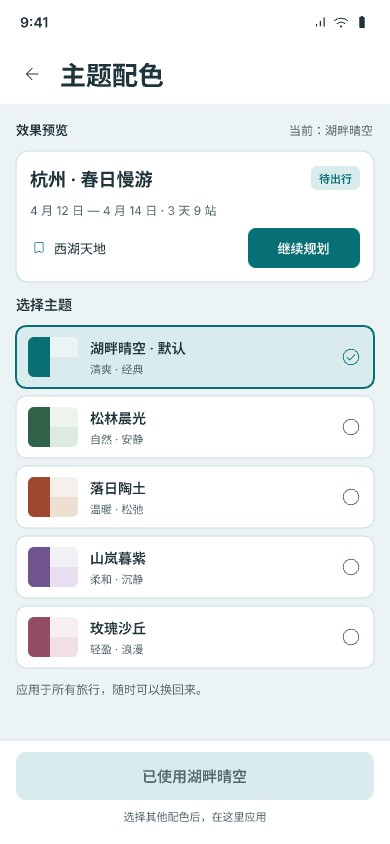
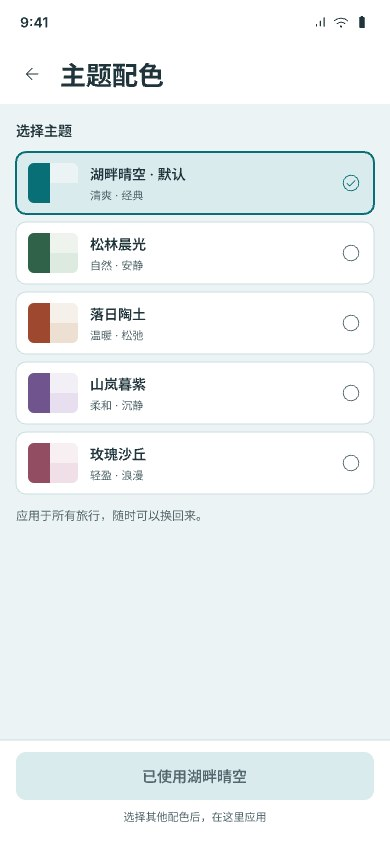
fix: 移除主题页虚构旅行预览卡片

diff --git a/app/src/main/java/com/yangchengwei/easytrip/core/ui/theme/ThemePickerScreen.kt b/app/src/main/java/com/yangchengwei/easytrip/core/ui/theme/ThemePickerScreen.kt
@@ -50,11 +50,6 @@ fun ThemePickerScreen(
                     Modifier.weight(1f).verticalScroll(rememberScrollState()).padding(16.dp).testTag("theme-options-scroll"),
                     verticalArrangement = Arrangement.spacedBy(12.dp),
                 ) {
-                    Row(Modifier.fillMaxWidth(), verticalAlignment = Alignment.CenterVertically) {
-                        Text("效果预览", Modifier.weight(1f), style = MaterialTheme.typography.titleSmall)
-                        Text("预览 · ${state.preview.displayName}", style = MaterialTheme.typography.bodySmall, color = MaterialTheme.colorScheme.onSurfaceVariant)
-                    }
-                    ThemePreviewCard()
                     Text("选择主题", style = MaterialTheme.typography.titleSmall)
                     Column(Modifier.selectableGroup(), verticalArrangement = Arrangement.spacedBy(8.dp)) {
                         ThemePalette.entries.forEach { palette ->
@@ -83,28 +78,6 @@ fun ThemePickerScreen(
                 }
             }
             // Also covers predictive/system back while persistence is in flight.
-        }
-    }
-}
-
-@Composable
-private fun ThemePreviewCard() {
-    Surface(shape = RoundedCornerShape(12.dp), border = BorderStroke(1.dp, MaterialTheme.colorScheme.outline)) {
-        Column(Modifier.fillMaxWidth().padding(14.dp), verticalArrangement = Arrangement.spacedBy(10.dp)) {
-            Row(Modifier.fillMaxWidth(), verticalAlignment = Alignment.CenterVertically) {
-                Text("杭州 · 春日慢游", Modifier.weight(1f), style = MaterialTheme.typography.titleLarge, fontWeight = FontWeight.Bold)
-                Surface(shape = RoundedCornerShape(6.dp), color = MaterialTheme.colorScheme.primaryContainer) {
-                    Text("待出行", Modifier.padding(horizontal = 8.dp, vertical = 4.dp), style = MaterialTheme.typography.labelSmall)
-                }
-            }
-            Text("4月12日 — 4月14日 · 3天9站", color = MaterialTheme.colorScheme.onSurfaceVariant, style = MaterialTheme.typography.bodySmall)
-            Row(Modifier.fillMaxWidth(), verticalAlignment = Alignment.CenterVertically) {
-                Text("♧  西湖天地", Modifier.weight(1f), style = MaterialTheme.typography.bodyMedium)
-                // A preview, deliberately without click semantics.
-                Surface(shape = RoundedCornerShape(10.dp), color = MaterialTheme.colorScheme.primary, contentColor = MaterialTheme.colorScheme.onPrimary) {
-                    Text("继续规划", Modifier.padding(horizontal = 24.dp, vertical = 12.dp), style = MaterialTheme.typography.labelLarge)
-                }
-            }
         }
     }
 }

diff --git a/.scratch/v1.6.0-theme-design/spec.md b/.scratch/v1.6.0-theme-design/spec.md
@@ -9,7 +9,7 @@ Status: ready-for-agent
 
 ## 方案比较
 
-推荐：独立主题页，点击预览后应用。可以在同一行程内容上比较配色，返回即可取消，状态边界明确。
+推荐：独立主题页，点击预览后应用。主题页自身随临时选色变化，可直接比较背景、文字、选中行和按钮配色，返回即可取消，状态边界明确；不展示虚构旅行卡片。
 
 备选：点击即保存，少一步操作，但比较主题会连续改变全局偏好。
 
@@ -19,7 +19,7 @@ Status: ready-for-agent
 
 1. 首页右上角当前静态头像位置改为 48dp 调色盘按钮，语义为「主题配色」；空态也显示。
 2. 工作台更多菜单添加同名项，副标题显示当前主题和「所有旅行」。旅行设置、分享行程长图、地图授权、返回我的旅行全部保留。菜单允许滚动，推荐最大高度 320dp；主题页返回时保留当前旅行、日期、抽屉高度、视图模式和滚动位置。
-3. 页面包含返回、标题、效果预览、5 行单选列表和底部应用操作。行高至少 62dp，返回及应用目标至少 48dp；大字体与短屏时内容滚动，不缩小文字。底部操作位于安全区内。
+3. 页面包含返回、标题、内容顶部的 5 行单选列表和底部应用操作，不单设效果预览卡片。行高至少 62dp，返回及应用目标至少 48dp；大字体与短屏时内容滚动，不缩小文字。底部操作位于安全区内。
 4. 预览中的旅行内容为展示样例，预览卡不触发业务操作。选择项展示名称、风格、色样、描边和勾；「默认」标识表示升级和缺省选择，不代表当前已应用。
 
 ## 状态与行为

diff --git a/design/v1.6.0-themes.md b/design/v1.6.0-themes.md
@@ -22,7 +22,7 @@
 
 沿用 390×844 Android 画布、紧凑间距、白色卡片与现有地图工作台。首页右上角静态「我」的位置换为主题调色盘入口（48dp）；工作台更多菜单追加「主题配色」，保留旅行设置、分享、地图授权与返回我的旅行。
 
-主题页面使用 62dp 整行单选，展示主色、背景与容器色样；顶部用行程内容预览按钮和文字效果。选中同时用描边和勾表达。点配色只改变本页预览；点底部「应用主题」才保存并全局生效，随后返回原页面。返回放弃预览，无二次确认。已应用项显示禁用的「已使用…」。
+主题页面使用 62dp 整行单选，展示主色、背景与容器色样；主题列表直接位于内容顶部，整页背景、文字、选中行和按钮随选色即时预览，不展示虚构旅行卡片或单独的「效果预览」区域。选中同时用描边和勾表达。点配色只改变本页预览；点底部「应用主题」才保存并全局生效，随后返回原页面。返回放弃预览，无二次确认。已应用项显示禁用的「已使用…」。
 
 主题对全部旅行生效并在本机记住。首次使用与升级保持湖畔晴空。地图底图、8 色旅行日色盘、错误红色保持稳定。分享页操作控件跟随主题；已导出长图不改变，新导出的长图维持当前固定湖畔晴空模板，保持分享阅读一致。
 

diff --git a/docs/superpowers/plans/2026-09-23-theme-preview-removal.md b/docs/superpowers/plans/2026-09-23-theme-preview-removal.md
@@ -1,0 +1,21 @@
+# Theme Preview Removal Implementation Plan
+
+**Goal:** 主题配色页不再显示虚构旅行内容，保留整页即时预览。
+
+**Architecture:** 删除展示用 ThemePreviewCard 及上方标题。状态管理、持久化、导航和主题列表不变；五套 Pencil 选择页与说明同步。
+
+**Tech Stack:** Kotlin Compose、Pencil。
+
+## Global Constraints
+
+- 保持功能分支；修改前备份，保留其他任务未追踪文件。
+- 低影响删除复用现有测试，不新增镜像断言。
+- 不自动推送或发布。
+
+## Task 1: 删除示例区域并验证
+
+- [x] 删除 ThemePickerScreen.kt 中效果预览 Row、ThemePreviewCard() 调用和该私有函数，内容首项为 Text("选择主题", style = MaterialTheme.typography.titleSmall)。
+- [x] 同步五套 Pencil 页：WlVUl、uyy9R、QprVu、GAS2e、kCPbS 删除“预览标题”“实时主题预览”节点；导出对应 JPEG。
+- [x] 更新 design/v1.6.0-themes.md 和 .scratch/v1.6.0-theme-design/spec.md。
+- [x] ./gradlew :app:assembleDebug :app:assembleDebugAndroidTest；在独立只读模拟器执行 ThemePickerTest，检查五套主题和大字截图。
+- [x] 保存并回读设计、git diff --check、记录验证与回滚，提交本地变更并通知。

diff --git a/.scratch/v1.6.0-theme-preview-removal/verification.md b/.scratch/v1.6.0-theme-preview-removal/verification.md
@@ -1,0 +1,12 @@
+# 主题页移除虚构旅行卡片
+
+2026-09-23 用户要求主题配色效果预览不要出现虚构旅行卡片。
+
+- 已移除 ThemePreviewCard、效果预览标题及主题预览标签；列表直接置顶，整页仍随临时选色变化。
+- 五套 Pencil 选择页同步修订，原生保存后通过独立副本回读；无虚构旅行文字、无裁切。比较页沿用对应五张更新 JPEG。
+- Debug / AndroidTest 构建成功；现有 ThemePickerTest 5/5 通过，涵盖五主题切换/放弃/应用、失败重试、保存中返回拦截、小屏大字体、空态与持久化。
+- 六张主题截图已通过视觉检查和中文 OCR；无虚构卡片，大字测试截图处于滚动后位置，上边缘为正常视口裁切，末项与应用按钮可见。
+- 真机安装证据在本目录 device-verification.json；先前真机 v1.6.0 已安装记录见 ../v1.6.0-device/verification.md。
+- 源码仅删除展示内容，不改数据、主题状态或导航行为。未自动推送或发布。
+
+修改前逐文件备份位于 before/；回滚可恢复本次删除展示区域，不改业务数据库或主题偏好格式。

diff --git a/.codex/TASK_STATE.md b/.codex/TASK_STATE.md
@@ -1,3 +1,15 @@
+# v1.6.0 主题页移除虚构旅行预览
+
+状态：DONE（2026-09-23，源码、设计及模拟器验证完成）
+
+主题页已移除虚构旅行卡片及“效果预览”标题，五套列表上移；整页临时预览、应用保存和返回放弃保持。五套 Pencil 页已同步并保存回读，比较页图片更新。
+
+Debug / AndroidTest 构建通过；现有 ThemePickerTest 5/5 通过，五配色与小屏大字截图完成视觉和 OCR 检查。验证与修改前备份位于 .scratch/v1.6.0-theme-preview-removal/。本轮真机交付结果以该目录 device-verification.json 为准。修订仅本地提交，未推送或发布。
+
+---
+
+## 之前的任务记录
+
 # v1.6.0 五套浅色主题
 
 状态：DONE（2026-09-23，设计已确认，Android 实现及模拟器验证完成）

diff --git a/docs/superpowers/specs/2026-09-23-theme-preview-removal-design.md b/docs/superpowers/specs/2026-09-23-theme-preview-removal-design.md
@@ -1,0 +1,9 @@
+# 主题页移除虚构旅行预览
+
+用户在真机验收后要求主题配色效果预览中不要出现虚构旅行卡片。
+
+采用最小修订：移除整块虚构行程和其“效果预览”标题，主题选择列表直接置于页面内容顶部。页面背景、文字、选中行和应用按钮继续随临时主题变化，承担配色预览；仅点击应用才保存，返回仍放弃。
+
+不引入真实旅行数据依赖，不新增示例色块区，不改变主题列表、持久化或导航逻辑。五套 Pencil 选择页同步移除两块节点，保持 62dp 行高及底部固定操作。
+
+验证使用现有 ThemePickerTest 的五套主题切换、保存失败与小屏/大字用例，构建通过后检查实际截图与可编辑设计节点。
